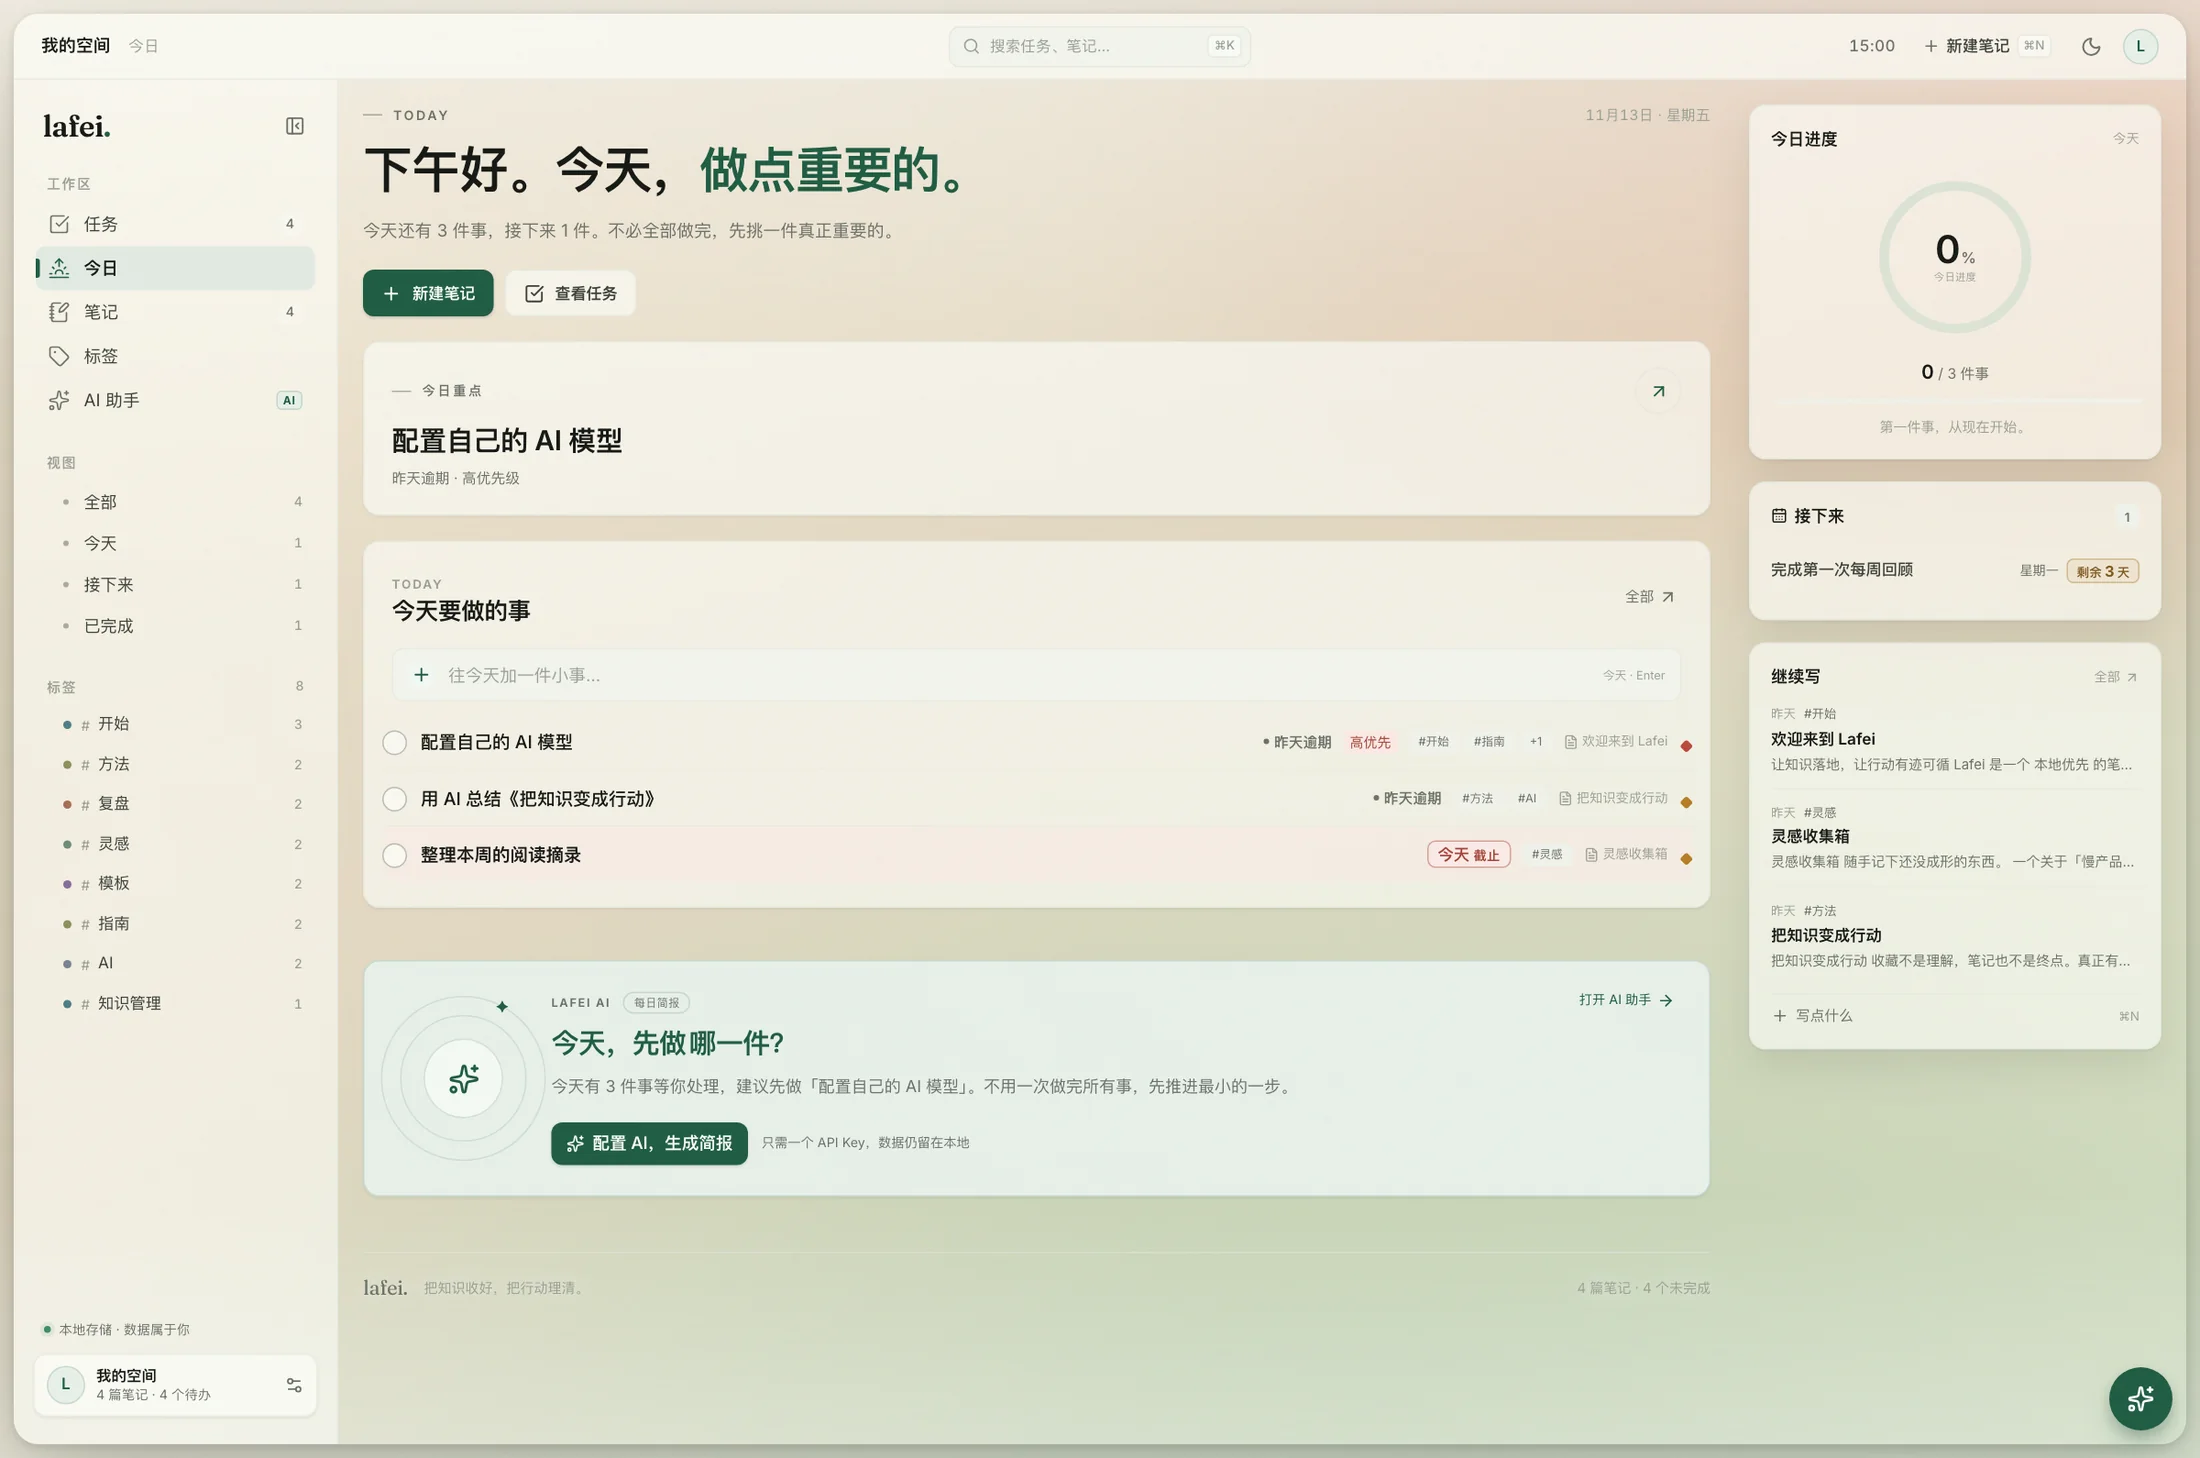
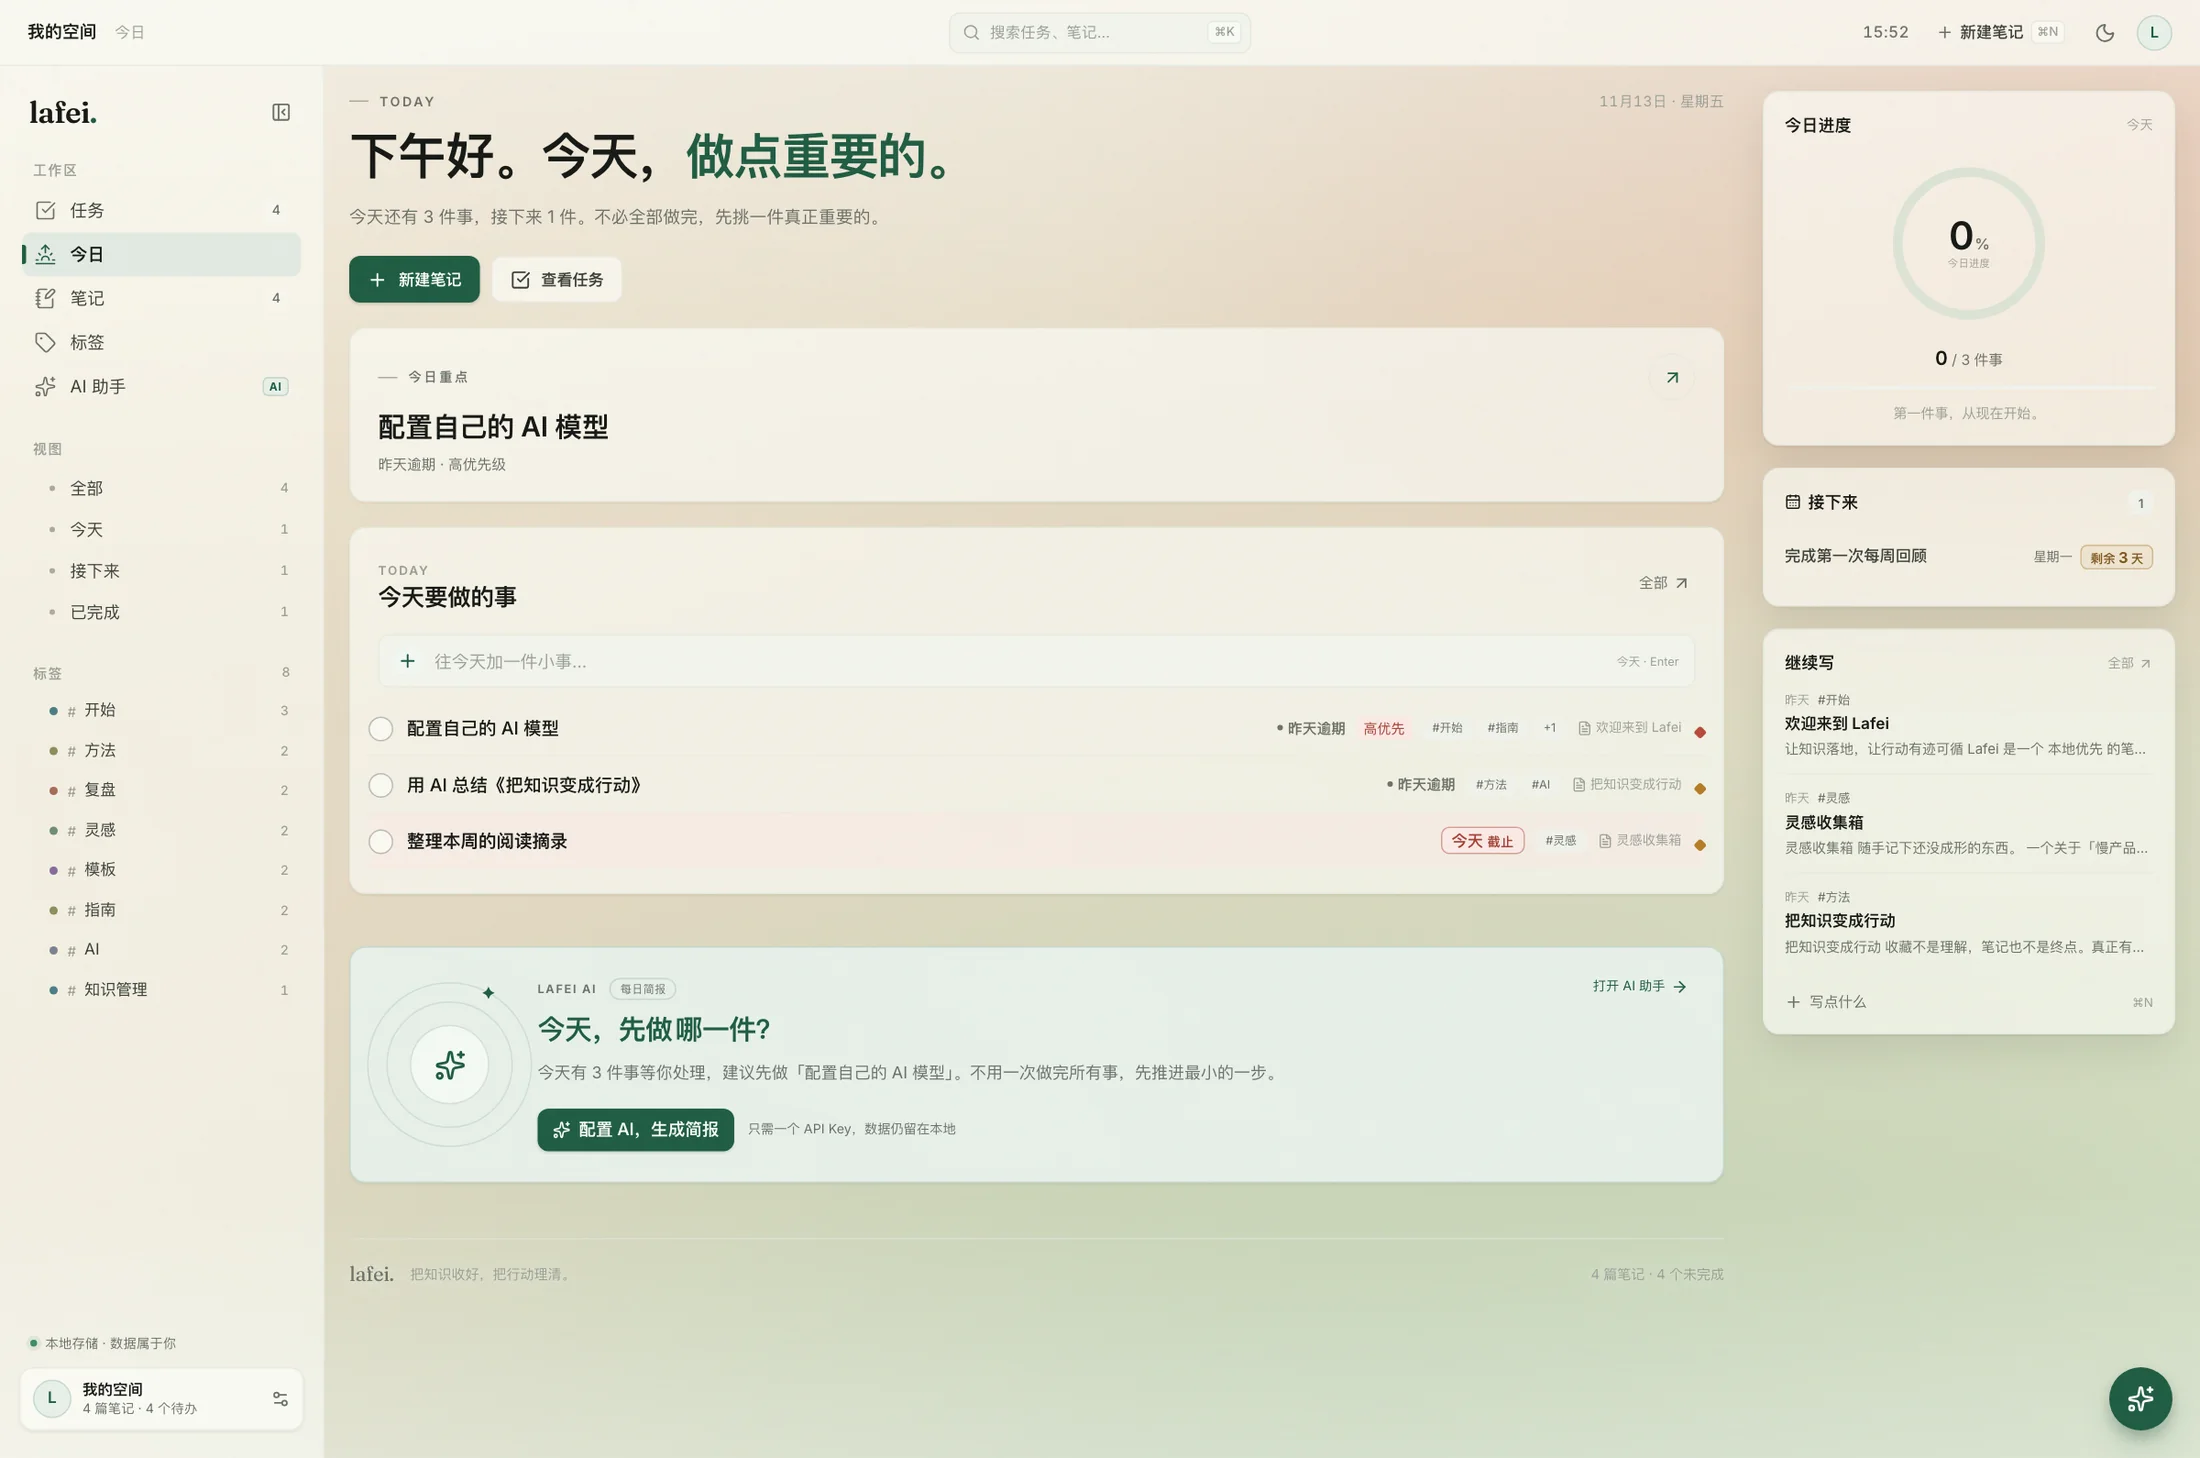
chore(release): 0.22.2 — 工作台铺满窗口，去掉外圈留白
- 去掉工作台四周 10px 留白、圆角与投影，应用重新铺满窗口
- 设置移除「四周留白」开关，只保留背景图源、模糊、遮罩与面板通透度
- 背景截图与 README / CHANGELOG 同步更新

diff --git a/src/wallpaper.css b/src/wallpaper.css
@@ -1,7 +1,7 @@
 /* ==========================================================================
    Lafei · 桌面背景（大背景）
    壁纸层铺在壳层后面，壳层切到磨砂玻璃；
-   由 html[data-wallpaper] / [data-wallpaper-glass] / [data-wallpaper-frame] 控制。
+   由 html[data-wallpaper] / [data-wallpaper-glass] 控制。
    ========================================================================== */
 
 :root {
@@ -11,7 +11,6 @@
   --wall-line-rgb: 225 229 219;
   --wp-blur: 14px;
   --wp-scrim: 0.32;
-  --wp-frame: 10px;
 }
 
 html[data-theme="dark"] {
@@ -244,28 +243,6 @@ html[data-wallpaper="on"] .wb-storage {
 
   html[data-wallpaper="on"] .mobile-nav {
     background: rgb(var(--wall-glass-rgb) / 0.86);
-  }
-}
-
-/* --------------------------------------------------------------------------
-   浮窗布局：四周留一圈背景，像把工作台放在桌面上
-   -------------------------------------------------------------------------- */
-
-@media (min-width: 821px) {
-  html[data-wallpaper="on"][data-wallpaper-frame="float"] .app-shell {
-    width: calc(100% - var(--wp-frame) * 2);
-    height: calc(100dvh - var(--wp-frame) * 2);
-    margin: var(--wp-frame);
-    border-radius: 18px;
-    box-shadow:
-      0 2px 8px rgba(16, 22, 16, 0.14),
-      0 30px 80px rgba(16, 22, 16, 0.24);
-  }
-
-  html[data-theme="dark"][data-wallpaper="on"][data-wallpaper-frame="float"] .app-shell {
-    box-shadow:
-      0 2px 8px rgba(0, 0, 0, 0.5),
-      0 30px 90px rgba(0, 0, 0, 0.55);
   }
 }
 
@@ -641,9 +618,3 @@ html[data-theme="dark"] .wp-tile-preview {
 
 }
 
-/* 手机上壳层始终铺满，留白开关没有意义，直接收起 */
-@media (max-width: 820px) {
-  .wp-option-frame {
-    display: none;
-  }
-}

diff --git a/src/components/Wallpaper.tsx b/src/components/Wallpaper.tsx
@@ -22,24 +22,21 @@ export function WallpaperLayer() {
     if (!active) {
       root.dataset.wallpaper = "off";
       delete root.dataset.wallpaperGlass;
-      delete root.dataset.wallpaperFrame;
       root.style.removeProperty("--wp-blur");
       root.style.removeProperty("--wp-scrim");
       return;
     }
     root.dataset.wallpaper = "on";
     root.dataset.wallpaperGlass = wallpaper.glass;
-    root.dataset.wallpaperFrame = wallpaper.frame;
     root.style.setProperty("--wp-blur", `${wallpaper.blur}px`);
     root.style.setProperty("--wp-scrim", String(wallpaper.scrim));
-  }, [active, wallpaper.glass, wallpaper.frame, wallpaper.blur, wallpaper.scrim]);
+  }, [active, wallpaper.glass, wallpaper.blur, wallpaper.scrim]);
 
   useEffect(
     () => () => {
       const root = document.documentElement;
       root.dataset.wallpaper = "off";
       delete root.dataset.wallpaperGlass;
-      delete root.dataset.wallpaperFrame;
     },
     [],
   );

diff --git a/src/features/WallpaperSettings.tsx b/src/features/WallpaperSettings.tsx
@@ -270,24 +270,6 @@ export function WallpaperSettings() {
               </div>
             </div>
 
-            <div className="wp-option wp-option-frame">
-              <span className="wp-option-label">
-                四周留白
-                <em>{wallpaper.frame === "float" ? "浮窗" : "铺满"}</em>
-              </span>
-              <button
-                type="button"
-                role="switch"
-                aria-label="四周留白"
-                aria-checked={wallpaper.frame === "float"}
-                className={cn("wp-switch", wallpaper.frame === "float" && "is-on")}
-                onClick={() =>
-                  setWallpaper({ frame: wallpaper.frame === "float" ? "edge" : "float" })
-                }
-              >
-                <span />
-              </button>
-            </div>
           </div>
 
           <div className="wp-foot">

diff --git a/src/types.ts b/src/types.ts
@@ -113,9 +113,6 @@ export type WallpaperKind = "none" | "preset" | "custom";
 export type WallpaperPreset = "dawn" | "moss" | "dune" | "coast" | "ember" | "slate";
 /** 面板通透度：通透 / 平衡 / 沉稳 */
 export type WallpaperGlass = "clear" | "balanced" | "solid";
-/** 壳层留白：浮窗（四周露出背景）或铺满窗口 */
-export type WallpaperFrame = "float" | "edge";
-
 export interface WallpaperSettings {
   kind: WallpaperKind;
   preset: WallpaperPreset;
@@ -126,7 +123,6 @@ export interface WallpaperSettings {
   /** 背景遮罩浓度，0 - 1 */
   scrim: number;
   glass: WallpaperGlass;
-  frame: WallpaperFrame;
 }
 
 export interface WallpaperAsset {

diff --git a/src/lib/wallpaper.ts b/src/lib/wallpaper.ts
@@ -96,7 +96,6 @@ export const WALLPAPER_DEFAULT: WallpaperSettings = {
   blur: 12,
   scrim: 0.24,
   glass: "clear",
-  frame: "float",
 };
 
 const KINDS: WallpaperKind[] = ["none", "preset", "custom"];
@@ -135,7 +134,6 @@ export function normalizeWallpaper(input?: Partial<WallpaperSettings> | null): W
     glass: GLASS.includes(saved.glass as WallpaperGlass)
       ? (saved.glass as WallpaperGlass)
       : WALLPAPER_DEFAULT.glass,
-    frame: saved.frame === "edge" ? "edge" : "float",
   };
 }
 

diff --git a/README.md b/README.md
@@ -39,7 +39,7 @@
 
 | 平台 | 版本 | 说明 |
 | --- | --- | --- |
-| macOS（Apple Silicon） | [v0.22.1](https://github.com/tangf-ai/lafei/releases/latest) | `Lafei-0.22.1-macOS-arm64.dmg`，ad-hoc 签名、未公证；首次打开如被拦截，右键应用选「打开」 |
+| macOS（Apple Silicon） | [v0.22.2](https://github.com/tangf-ai/lafei/releases/latest) | `Lafei-0.22.2-macOS-arm64.dmg`，ad-hoc 签名、未公证；首次打开如被拦截，右键应用选「打开」 |
 | Web / PWA | 源码构建 | `pnpm build` 后把 `dist/` 部署到任意静态托管 |
 | Windows / Linux | 源码构建 | Tauri 2 支持，暂未提供预编译包 |
 
@@ -177,11 +177,11 @@
 - 六套内置的「光雾」预设（晨雾 / 苔原 / 沙丘 / 海岸 / 暮橘 / 砚青）全部用 CSS 渐变画出来，离线可用、不占安装包；也可以选自己的照片（JPG / PNG / WebP），直接拖进设置页
 - 背景开启后，侧栏、顶栏和卡片会变成磨砂玻璃，背景从纸缝里透出来；「通透 / 平衡 / 沉稳」三档调节面板透出程度
 - 背景模糊与遮罩浓度可以单独调：照片再花，正文和标题也读得清
-- 「四周留白」打开时，整个工作台像一张浮在背景上的卡片；关掉则铺满窗口
+- 应用铺满整个窗口，外圈不留空隙
 - 背景跟随主题：玻璃底色、遮罩和页脚柔光会切换成对应主题的纸色或墨色
 - 图片保存在本机 IndexedDB 的 `assets` 表（最长边自动压到 3200px），不上传、不进备份，也不随数据仓库同步；换图时会自动删掉上一张
-- 任务页与笔记页也能看到背景：矩阵板只保留一层玻璃，四象限直接透出背景；笔记改成浮在背景上的两块纸面，列表、编辑器和窗口之间都留出背景
-- 手机端自动铺满窗口、隐藏留白开关，并只在顶栏和底栏做玻璃
+- 任务页与笔记页也能看到背景：矩阵板只保留一层玻璃，四象限直接透出背景；笔记改成浮在背景上的两块纸面，列表与编辑器之间留出背景
+- 手机端同样铺满，并只在顶栏和底栏做玻璃，减少滚动区域的合成开销
 
 | 自己的照片 | 深色主题 |
 | --- | --- |
@@ -229,9 +229,9 @@ pnpm desktop:build   # 生成 .app / .dmg（macOS）或对应平台安装包
 macOS 构建产物：
 
 ```text
-Lafei-0.22.1-macOS-arm64.dmg                                      # 可直接分发的安装包
+Lafei-0.22.2-macOS-arm64.dmg                                      # 可直接分发的安装包
 src-tauri/target/release/bundle/macos/Lafei.app                  # 未打包的应用
-src-tauri/target/release/bundle/dmg/Lafei_0.22.1_aarch64.dmg      # Tauri 原始产物
+src-tauri/target/release/bundle/dmg/Lafei_0.22.2_aarch64.dmg      # Tauri 原始产物
 ```
 
 > 构建产物（`.app` / `.dmg`）不进入 Git，正式版本请通过 GitHub Releases 分发。当前本地产物是 Apple Silicon（arm64）版本，使用 ad-hoc 签名，未做 Apple 公证；若系统提示无法验证，右键应用选择「打开」，或在终端执行：
@@ -377,7 +377,7 @@ src/
     markdownEditor/ 即时预览编辑器（CodeMirror 6：行级装饰、格式命令、表格预览）
     NoteOutline.tsx 大纲面板；MarkdownReader.tsx 阅读模式渲染
   workbench.css     工作台视觉系统（token、壳层、各页面 B 版式、主题变体）
-  wallpaper.css     桌面背景层、壳层玻璃材质、留白布局与背景设置面板
+  wallpaper.css     桌面背景层、壳层玻璃材质与背景设置面板
   components/       编辑器外壳、任务行、命令面板、弹窗
   lib/
     ai.ts           OpenAI 兼容流式客户端、提示词、笔记检索
@@ -427,7 +427,7 @@ scripts/mock-ai.mjs 本地 AI 演示服务
 
 ## 已知限制
 
-这是 `0.22.1`，一个可以真实日用的本地 MVP，但不是完成品：
+这是 `0.22.2`，一个可以真实日用的本地 MVP，但不是完成品：
 
 - 文件夹同步是文件级的、最终一致的，不是实时协作；冲突采用更新时间优先，没有逐行合并
 - 手机 PWA 不能直接读取 iCloud Drive；目前需要备份迁移，原生 iOS 版尚未生成

diff --git a/CHANGELOG.md b/CHANGELOG.md
@@ -3,6 +3,13 @@
 所有值得记录的变更都会写在这里。格式参考 [Keep a Changelog](https://keepachangelog.com/zh-CN/1.1.0/)，
 版本号遵循 [Semantic Versioning](https://semver.org/lang/zh-CN/)。
 
+## [0.22.2] - 2026-11-13
+
+### Changed
+
+- 去掉工作台四周 10px 的留白与外圈圆角投影：应用重新铺满整个窗口，背景只在面板里透出；设置里的「四周留白」开关一并移除，少一个用不到的选项
+- 背景截图与文档同步更新为铺满窗口的样子
+
 ## [0.22.1] - 2026-11-13
 
 ### Fixed
